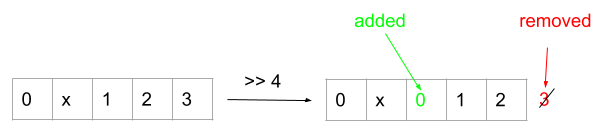
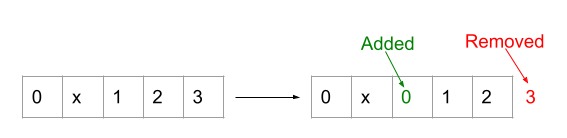
fixed compile error and changed the shade of green

Changed region(s): [[0.0, 0.2462, 0.9594, 0.9538], [0.8395, 0.0923, 0.9894, 0.2154], [0.5697, 0.0923, 0.6896, 0.2154]]

diff --git a/sections/sprint-4/client-side-handling.tex b/sections/sprint-4/client-side-handling.tex
@@ -86,7 +86,7 @@ The datagram is read from right to left using the right bitshift operation.
 When a hexadecimal is right bit shifted 4 bits every decimal in the hexadecimal is moved one decimal to the right as illustrated on \autoref{fig:sprint4-bit-shift-basic}.
 \begin{figure}[H]
     \centering
-    \includegraphics[width=0.6\linewidth]{sprint4/bit shift-illustration.png}
+    \includegraphics[width=0.6\linewidth]{sprint4/bitshift-illustration.png}
     \caption{Right bit shifting a hexadecimal by 4 bits.}
     \label{fig:sprint4-bit-shift-basic}
 \end{figure}
@@ -107,7 +107,7 @@ Decimals representing the player id are followed by four decimals representing t
 This means that to get the player id to the back of the hexadecimal the message has to be right bit shifted by 16 bits.
 \begin{figure}[H]
     \centering
-    \includegraphics[width=0.6\linewidth]{sprint4/bitshift-timestamp-illustration.png}
+    \includegraphics[width=0.6\linewidth]{sprint4/bitshift-playerid-illustration.png}
     \caption{Right bitshifting the message by 16 bits to get the player id to the back.}
     \label{fig:sprint4-bitshift-playerid}
 \end{figure}
